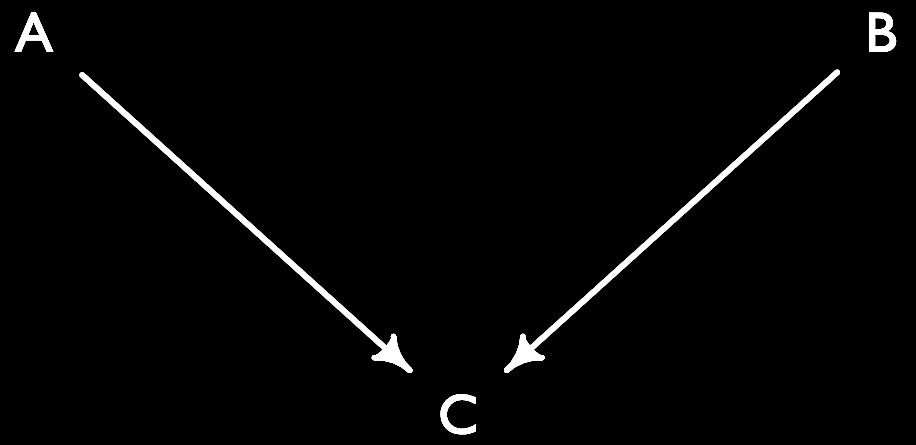
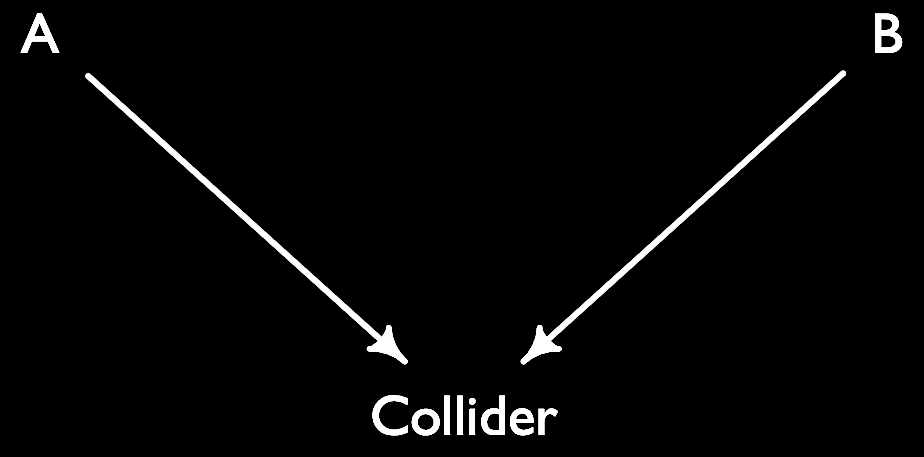
Dictionary updates

diff --git a/_posts/2020-09-08-stats-lexicon.md b/_posts/2020-09-08-stats-lexicon.md
@@ -10,10 +10,10 @@ pin: true
 has-code: true
 ---
 
-Many statistical terms are daunting. They can quickly become confusing. Even scholars themselves do not agree on what some mean. Try asking what a [p-value is at a conference](https://fivethirtyeight.com/features/not-even-scientists-can-easily-explain-p-values/) or, if you want to see academics practice kung-fu, ask them whether one should use fixed or random effects (safety not guaranteed). Many concepts sound alike and statistical learners end up feeling like reading a Russian novel: who is Alexandra Petrovna again? And what is her relation to Peter Alexandrovitch? Sometimes, it is even hard to distinguish statistical concepts from expletives used by [Captain Haddock](https://en.wikipedia.org/wiki/Captain_Haddock#Expletives). Being a non-native speaker compounds these difficulties. For instance, what does "significant" mean? 
+Many statistical terms are daunting and can quickly become confusing. Even scholars themselves do not agree on what some mean. Try asking what a [p-value is at a conference](https://fivethirtyeight.com/features/not-even-scientists-can-easily-explain-p-values/) or, if you want to see academics practice kung-fu, ask them whether one should use fixed or random effects (safety not guaranteed). Many concepts sound alike and statistical learners end up feeling like reading a Russian novel: who is Alexandra Petrovna again? And what is her relation to Peter Alexandrovitch? Sometimes, it is even hard to distinguish statistical concepts from expletives used by [Captain Haddock](https://en.wikipedia.org/wiki/Captain_Haddock#Expletives). Being a non-native speaker compounds these difficulties. 
 
-I have not yet come across a statistical book with an accessible glossary. So I hope this simple dictionary (work-in-progress!) will help you (and me) to survive the life statistical. Let me know where I can improve it! Use this dictionary at your own peril.
-
+I have not yet come across a statistical book with an accessible glossary. So I hope this simple dictionary (slowly updated, work-in-progress!) will help you (and me) to survive the life statistical. Let me know where I can improve it! <!-- Use this dictionary at your own peril.
+ -->
 <!-- "“Unfortunately, I have yet to find a single person who can explain what ignorability means in a language spoken by those who need to make this assumption or assess its plausibility in a given problem.” (The book of Why, p. 281)."
 
 Imai 2010 (focus on NDE - fn 3) vs. Balckwell (focus on CDE)
@@ -38,43 +38,42 @@ total effectc an be nul but mechanism can have effect. Gelato example of Aki.
 
 * ***Bias-variance trade-off:*** -->
 
-* ***Collider:*** common effect of two causes. In DAGs where two arrows collide. Thus if you condition on this collider, there can be an association between these two causes even though there is no causal relation between them. This is due to the fact that information circulates from one cause to the effect to the second cause. 
-	- <!-- This leads to *selection bias*: it looksassociation between A and Y even if A does not cause Y. NB: a common effect is not necessarily a collider: a common effect can be the effect of a collider. Selection bias also arises in this case if we condition on the effect of a collider. -->
-	- Example: imagine a light switch, which is our collider. You , electricity and light. If you see light is on, and switch is on, then you automatically learn that there is electricitiy. If there is electricity, and there is no light, you automatically deduce that the switch if off (draw DAG below, link to McElreath).
-	- See also: *DAG*, *selection bias*, *confounder*
+* ***Collider:*** common effect of two causes. In *DAGs*, colliders are where two arrows collide (see the graph and code below). If you condition on a collider, a spurrious association arises between two causes even though there is no causal relation between them. This is due to the fact that information circulates from one cause to the effect to the second cause. 
+	<!-- - --> <!-- This leads to *selection bias*: it looksassociation between A and Y even if A does not cause Y. NB: a common effect is not necessarily a collider: a common effect can be the effect of a collider. Selection bias also arises in this case if we condition on the effect of a collider. -->
+	<!-- - Example: DATING: imagine a light switch, which is our collider. You , electricity and light. If you see light is on, and switch is on, then you automatically learn that there is electricitiy. If there is electricity, and there is no light, you automatically deduce that the switch if off. -->
+	- See also: *DAG*, *selection bias*, *Berkson's paradox*, *confounder*, *mediator*
+
+<img src="https://zgtruchlewski.github.io/assets/img/sample/Collider_bw.png" width="300" height="150" />
 
 ```R
 library(dagitty)
-collider <- dagitty( "dag{ A -> C; B -> C }" ) 
-coordinates(collider) <- list( x=c(A=0,C=1,B=2) , y=c(A=0,C=1,B=0) ) 
+collider <- dagitty( "dag{ A -> Collider; B -> Collider }" ) 
+coordinates(collider) <- list( x=c(A=0,Collider=1,B=2) , y=c(A=0,Collider=1,B=0) ) 
 drawdag(collider)
 ```
 
-<img src="https://zgtruchlewski.github.io/assets/img/sample/Collider_bw.png" width="226" height="181" />
-
-* ***DAG (directed acyclic graph):*** DAGs help to describe relationships between variables 
-
-
-Graph means it is nodes and con- nections. Directed means the connections have arrows that indicate directions of causal in- fluence. And acyclic means that causes do not eventually flow back on themselves. A DAG is a way of describing qualitative causal relationships among variables. It isn’t as detailed as a full model description, but it contains information that a purely statistical model does not. Unlike a statistical model, a DAG will tell you the consequences of intervening to change a variable. But only if the DAG is correct. There is no inference without assumption.
-The full framework for using DAGs to design and critique statistical models is compli- cated. So instead of smothering you in the whole framework right now, I’ll build it up one example at a time. By the end of the next chapter, you’ll have a set of simple rules that let you accomplish quite a lot of criticism. And then other applications will be introduced in later chapters.
+* ***DAG (directed acyclic graph):*** DAGs help to describe relationships between variables. Directed, because the graph indicates the direction of causality between variables. Acyclic, because the causality goes not go back. Graph, because variables are nodes and ties are their relationships. DAGs represent our assumptions about the model that we want to estimate. 
+	- See also: *Judea Pearl*, *confounder*, *collider*, *selection bias*, *Berkson's paradox*, *mediator*
 
 * ***Dendogram:*** a dendrogram is a hierarchical tree that predicts the possible community partitions. Used mostly in cluster analysis. In network analysis can be used to identify communities. <!-- (Barabasi 2016). --> <!-- "We can use a dendrogram to extract the underlying community organization. The dendrogram visualizes the order in which the nodes are assigned to specific communities. To identify the communities we must cut the dendrogram. Hierarchical clustering does not tell us where that cut should be. Using for example the cut indicated as a dashed line in Figure 9.9b, we recover the three obvious communities (ABC, EFG, and HIJK)." -->
 
-* ***Fitting:*** REWRITE, from Sololon Kurz: 	Two contrasting kinds of statistical error:
+<!-- * ***Fitting:*** REWRITE, from Sololon Kurz: 	Two contrasting kinds of statistical error:
     - overfitting, “which leads to poor prediction by learning too much from the data”
     - underfitting, “which leads to poor prediction by learning too little from the data” (p. 166, emphasis added)
 
-* ***Hierarchical model:*** also called "multilevel models". 
+* ***Hierarchical model:*** also called "multilevel models".  -->
 
-* ***Likelihood:*** In Bayesian statistics, the probability model. In Bayes' formula, $p(data|theta)$. More simply, likelihood is a probability distribution. Difference between likelihood and probability: in Bayes we used the word likelihood because the data is fixed (Lambert 4.4). Likelihood does not necessarily sum up to one, while probability does.
+* ***Kurtosis:*** neither an insult nor a planet. Rather, kurtosis quantifies how fat the tails of a distribution are. It's also called the fourth moment of a distribution. <!-- Lambert's Bayes book -->
 
-* ***Moments of sample:*** to fit the first two moments (the mean and the standard deviation, respectively) of the sample.
-	- See also: mean, standard deviation, skewness, kurtosis. 
+<!-- * ***Likelihood:*** In Bayesian statistics, the probability model. In Bayes' formula, $p(data|theta)$. More simply, likelihood is a probability distribution. Difference between likelihood and probability: in Bayes we used the word likelihood because the data is fixed (Lambert 4.4). Likelihood does not necessarily sum up to one, while probability does. -->
+
+<!-- * ***Moments of sample:*** to fit the first two moments (the mean and the standard deviation, respectively) of the sample.
+	- See also: mean, standard deviation, skewness, kurtosis.  -->
 
 * ***Probability:*** Does probability exist? If yes, what is it? It's surprising to learn that there is no agreement on this. Some people like Bruno de Finetti claimed that probability does not exist - at least not objectively. It's in the eye of the beholder: many people have different probabilities of an event depending on their state of knowledge. Others defined probability base on notions such as a set of events (Kolmogorov), a long run frequency (Venn), or based on all possible outcomes of an experiment (Gosset). 
-	- Seel also: The Lady Tasting Tea, Ch. 29. 
+	<!-- - Seel also: The Lady Tasting Tea, Ch. 29.  -->
 
-* ***p-value:*** See [here](https://statsepi.substack.com/p/no-you-cant-explain-what-a-p-value)
+<!-- * ***p-value:*** See [here](https://statsepi.substack.com/p/no-you-cant-explain-what-a-p-value)
 
 * ***random sample:*** “Combining these two assumptions, we say in statistical language that our data sample is composed of independent and identically distributed observations, or alternatively we say that we have a random sample.” Excerpt From: Ben Lambert. “A Student’s Guide to Bayesian Statistics”. Apple Books. 
 
@@ -87,11 +86,67 @@ Several schools: Stability of Coefficinet visual or table-based (classic, Traunm
 
 <img src="https://zgtruchlewski.github.io/assets/img/sample/Stargazing_BW_Negative.png" width="426" height="281" />
 
+The figure on statisitical vs. substantive significance can be replicated with the following `R` code:
+
+```R
+### Data 
+x1 <- seq(-.2,.6,length=1000)
+y1 <- dnorm(x1,mean=.2, sd=.1)
+x2 <- seq(1,1.8,length=1000)
+y2 <- dnorm(x2,mean=1.4, sd=.1)
+x3 <- seq(-1,2,length=1000)
+y3 <- dnorm(x3,mean=0.8, sd=.5)
+
+### Plot 
+
+# Zero line
+segments(0,-.2,0,4, lwd=2, col="gray60", lty=2)
+
+# Densities
+plot(x2,y2, type="l", xlim=c(-1, 2), ylim=c(0, 5), lwd=1, axes=FALSE, 
+	xlab="",ylab="", xaxs="i", yaxs="i")
+	# # 95% CI shaded
+	x2p <- seq(1.2,1.6,length=1000)
+	y2p <- dnorm(x2p,mean=1.4, sd=.1)
+	polygon(c(1.2,x2p,1.6),c(0,y2p,0),col=col.alpha("gray",0.3), border=NA)
+
+lines(x1,y1, type="l", xlim=c(-1, 2), yaxt='n', lwd=1)
+	# # 95% CI shaded
+	x1p <- seq(0,.4,length=1000)
+	y1p <- dnorm(x1p,mean=0.2, sd=.1)
+	polygon(c(0,x1p,.4),c(0,y1p,0),col=col.alpha("gray",0.3), border=NA)
+
+lines(x3,y3, type="l", xlim=c(-1, 2), yaxt='n', lwd=1)
+	# # 95% CI shaded
+	x3p <- seq(-.2,1.8,length=1000)
+	y3p <- dnorm(x3p,mean=0.8, sd=.5)
+	polygon(c(-.2,x3p,1.8),c(0,y3p,0),col=col.alpha("gray",0.3), border=NA)
+
+axis(1, xlim=c(-1, 2), at= cbind(-1, -0.5, 0, .5, 1, 1.5, 2), 
+	labels=c("-2", "-1", "0", "1", "2", "3", "4"))
+
+# Add text
+text(-.775, 4.25, "Statistically significant?")
+text(-.775, 4.5, "Substantively significant?")
+
+text(.15, 4.25, "Yes") 
+text(.15, 4.5, "No")
+text(.2, 1, "Precision")
+
+text(1.35, 4.25, "Yes") 
+text(1.35, 4.5, "Yes")
+text(1.4, 1, "Ooomph &\nprecision")
+
+text(0.75, 4.25, "No") 
+text(0.75, 4.5, "Yes")
+text(0.8, .5, "Ooomph")
+```
+
 * ***Sequential ignorability:*** 
 
-* ***Sharp bound:*** partially identification of MAnski, mathematically guaranteed bound of ATE vs. Confidence Interval due to uncertainty of sample. 
+* ***Sharp bound:*** partially identification of MAnski, mathematically guaranteed bound of ATE vs. Confidence Interval due to uncertainty of sample.  -->
 
-* ***Skewness:*** The skewness and kurtosis (skewness measures how symmetric a distribution is, and kurtosis quantifies how fat its tails are; these relate to the third and fourth moments of a distribution, respectively).”
+* ***Skewness:*** skewness measures how symmetric a distribution is. It is also called the third moment of a distribution.”
 
 
 <!-- These are the most important concepts we've seen in McElreath's book and in the course. Try to skim this through and see what sticks and what does not. Also, if you come by better definitions, please do send them to me!
@@ -164,69 +219,4 @@ See Frank Harrel here: http://biostat.mc.vanderbilt.edu/wiki/Main/CourseBios330C
 - *zero-inflated outcomes:* When the zeros in a distribution come from different distributions, that is: there are different processes at play of why zero may arise (either nothing happened or the process in question failed to get started). Thus we need a mixture model to model the two or more processes at play. See section 11.2 of McElreath's book and his example of monks not producing manuscripts any given day either because they did not finish it or because they are drunk.
  -->
 
-# Sources
-
-
-# Code
-
-Link for the DAG code
-
-```R
-library(dagitty)
-```
-
-The figure on statisitical vs. substantive significance can be replicated with the following `R` code:
-
-```R
-### Data 
-x1 <- seq(-.2,.6,length=1000)
-y1 <- dnorm(x1,mean=.2, sd=.1)
-x2 <- seq(1,1.8,length=1000)
-y2 <- dnorm(x2,mean=1.4, sd=.1)
-x3 <- seq(-1,2,length=1000)
-y3 <- dnorm(x3,mean=0.8, sd=.5)
-
-### Plot 
-
-# Zero line
-segments(0,-.2,0,4, lwd=2, col="gray60", lty=2)
-
-# Densities
-plot(x2,y2, type="l", xlim=c(-1, 2), ylim=c(0, 5), lwd=1, axes=FALSE, 
-	xlab="",ylab="", xaxs="i", yaxs="i")
-	# # 95% CI shaded
-	x2p <- seq(1.2,1.6,length=1000)
-	y2p <- dnorm(x2p,mean=1.4, sd=.1)
-	polygon(c(1.2,x2p,1.6),c(0,y2p,0),col=col.alpha("gray",0.3), border=NA)
-
-lines(x1,y1, type="l", xlim=c(-1, 2), yaxt='n', lwd=1)
-	# # 95% CI shaded
-	x1p <- seq(0,.4,length=1000)
-	y1p <- dnorm(x1p,mean=0.2, sd=.1)
-	polygon(c(0,x1p,.4),c(0,y1p,0),col=col.alpha("gray",0.3), border=NA)
-
-lines(x3,y3, type="l", xlim=c(-1, 2), yaxt='n', lwd=1)
-	# # 95% CI shaded
-	x3p <- seq(-.2,1.8,length=1000)
-	y3p <- dnorm(x3p,mean=0.8, sd=.5)
-	polygon(c(-.2,x3p,1.8),c(0,y3p,0),col=col.alpha("gray",0.3), border=NA)
-
-axis(1, xlim=c(-1, 2), at= cbind(-1, -0.5, 0, .5, 1, 1.5, 2), 
-	labels=c("-2", "-1", "0", "1", "2", "3", "4"))
-
-# Add text
-text(-.775, 4.25, "Statistically significant?")
-text(-.775, 4.5, "Substantively significant?")
-
-text(.15, 4.25, "Yes") 
-text(.15, 4.5, "No")
-text(.2, 1, "Precision")
-
-text(1.35, 4.25, "Yes") 
-text(1.35, 4.5, "Yes")
-text(1.4, 1, "Ooomph &\nprecision")
-
-text(0.75, 4.25, "No") 
-text(0.75, 4.5, "Yes")
-text(0.8, .5, "Ooomph")
-```
+<!-- # Sources -->
